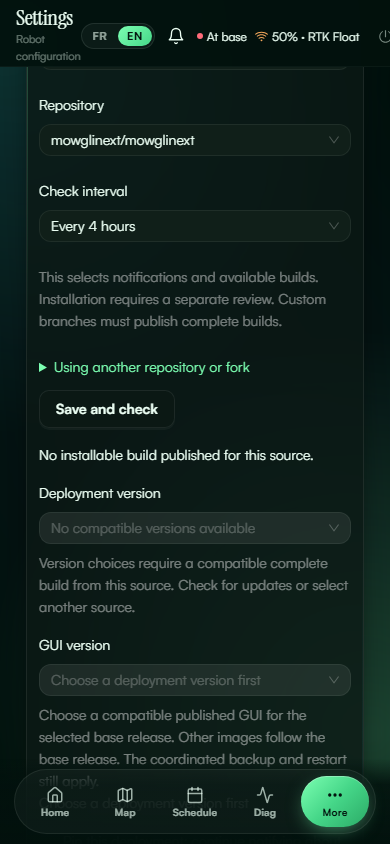
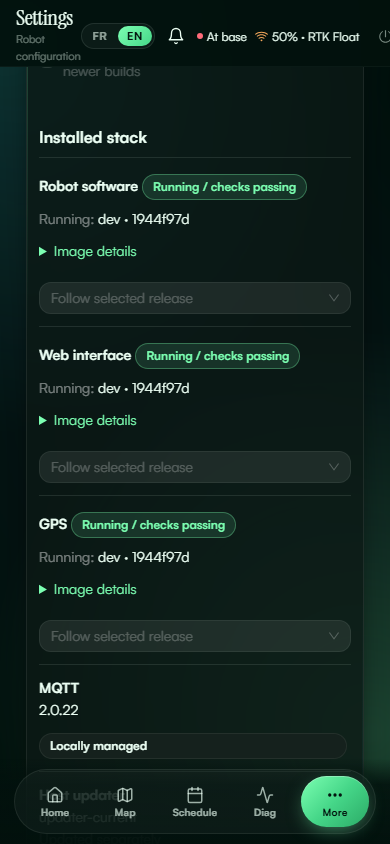
docs: refresh all updater screenshots for per-service version controls

diff --git a/screenshots/UPDATER-README.md b/screenshots/UPDATER-README.md
@@ -1,20 +1,18 @@
 # PR 540 updater screenshots
 
-Generated by gui/web/tests/e2e/host-updater.spec.ts on feat/settings-updates.
-All host-updater images are mocked upstream mowglinext/mowglinext examples.
-Production versions v1.1.0, v1.2.0, v1.2.1 and v1.3.0 are illustrative fixtures,
-not claims about available releases. No live robot data is included.
+All 28 host-updater screenshots were regenerated on 7 September 2026 from the
+final stack/per-service version UI in feat/settings-updates. Reproduce with
+`cd gui/web && npx playwright test tests/e2e/host-updater.spec.ts --workers=2`.
 
-Simple/Advanced and whole-deployment review: desktop 1440x1100, mobile 390x844.
-Custom combination / GUI override / review: desktop 1440x1400, mobile 390x844.
-Mobile Advanced screenshots scroll to the relevant controls. Review animations
-are settled before capture. These screenshots illustrate the UI, not hardware
-acceptance or completed upstream publication.
+Every image simulates upstream mowglinext/mowglinext. Production v1.2.0 installed,
+v1.3.0 available and v1.2.1 component overrides are fixtures, as are the Development
+revisions, custom branch and optional camera/helpers. These are not claims about
+published releases, live robot data or hardware acceptance.
 
+Desktop: 1440x1800. Mobile: 390x844, scrolled to the relevant stack/settings controls.
+The review keeps confirmation/cancellation visible while details scroll. Includes
+Simple, Advanced, review, mixed combinations, ROS/GUI/GPS/LiDAR/future-service
+selectors, empty release lists, membership add/remove/keep/local and custom branch.
 
-Release-owned stack review: `host-updater-stack-review-{desktop,mobile}.png`.
-These simulate upstream production v1.2.0 to v1.3.0 with a required navigation
-helper added, a legacy helper retired, GPS retained, LiDAR disabled by installer
-selection, and MQTT kept local. Releases, services and image identities are
-illustrative fixtures, not claims about published upstream builds or hardware.
-The mobile modal keeps installation/cancellation visible while details scroll.
+The older live-update-checks files are historical captures of the previous manual
+comparison screen and are not linked as current screenshots by PR 540.
